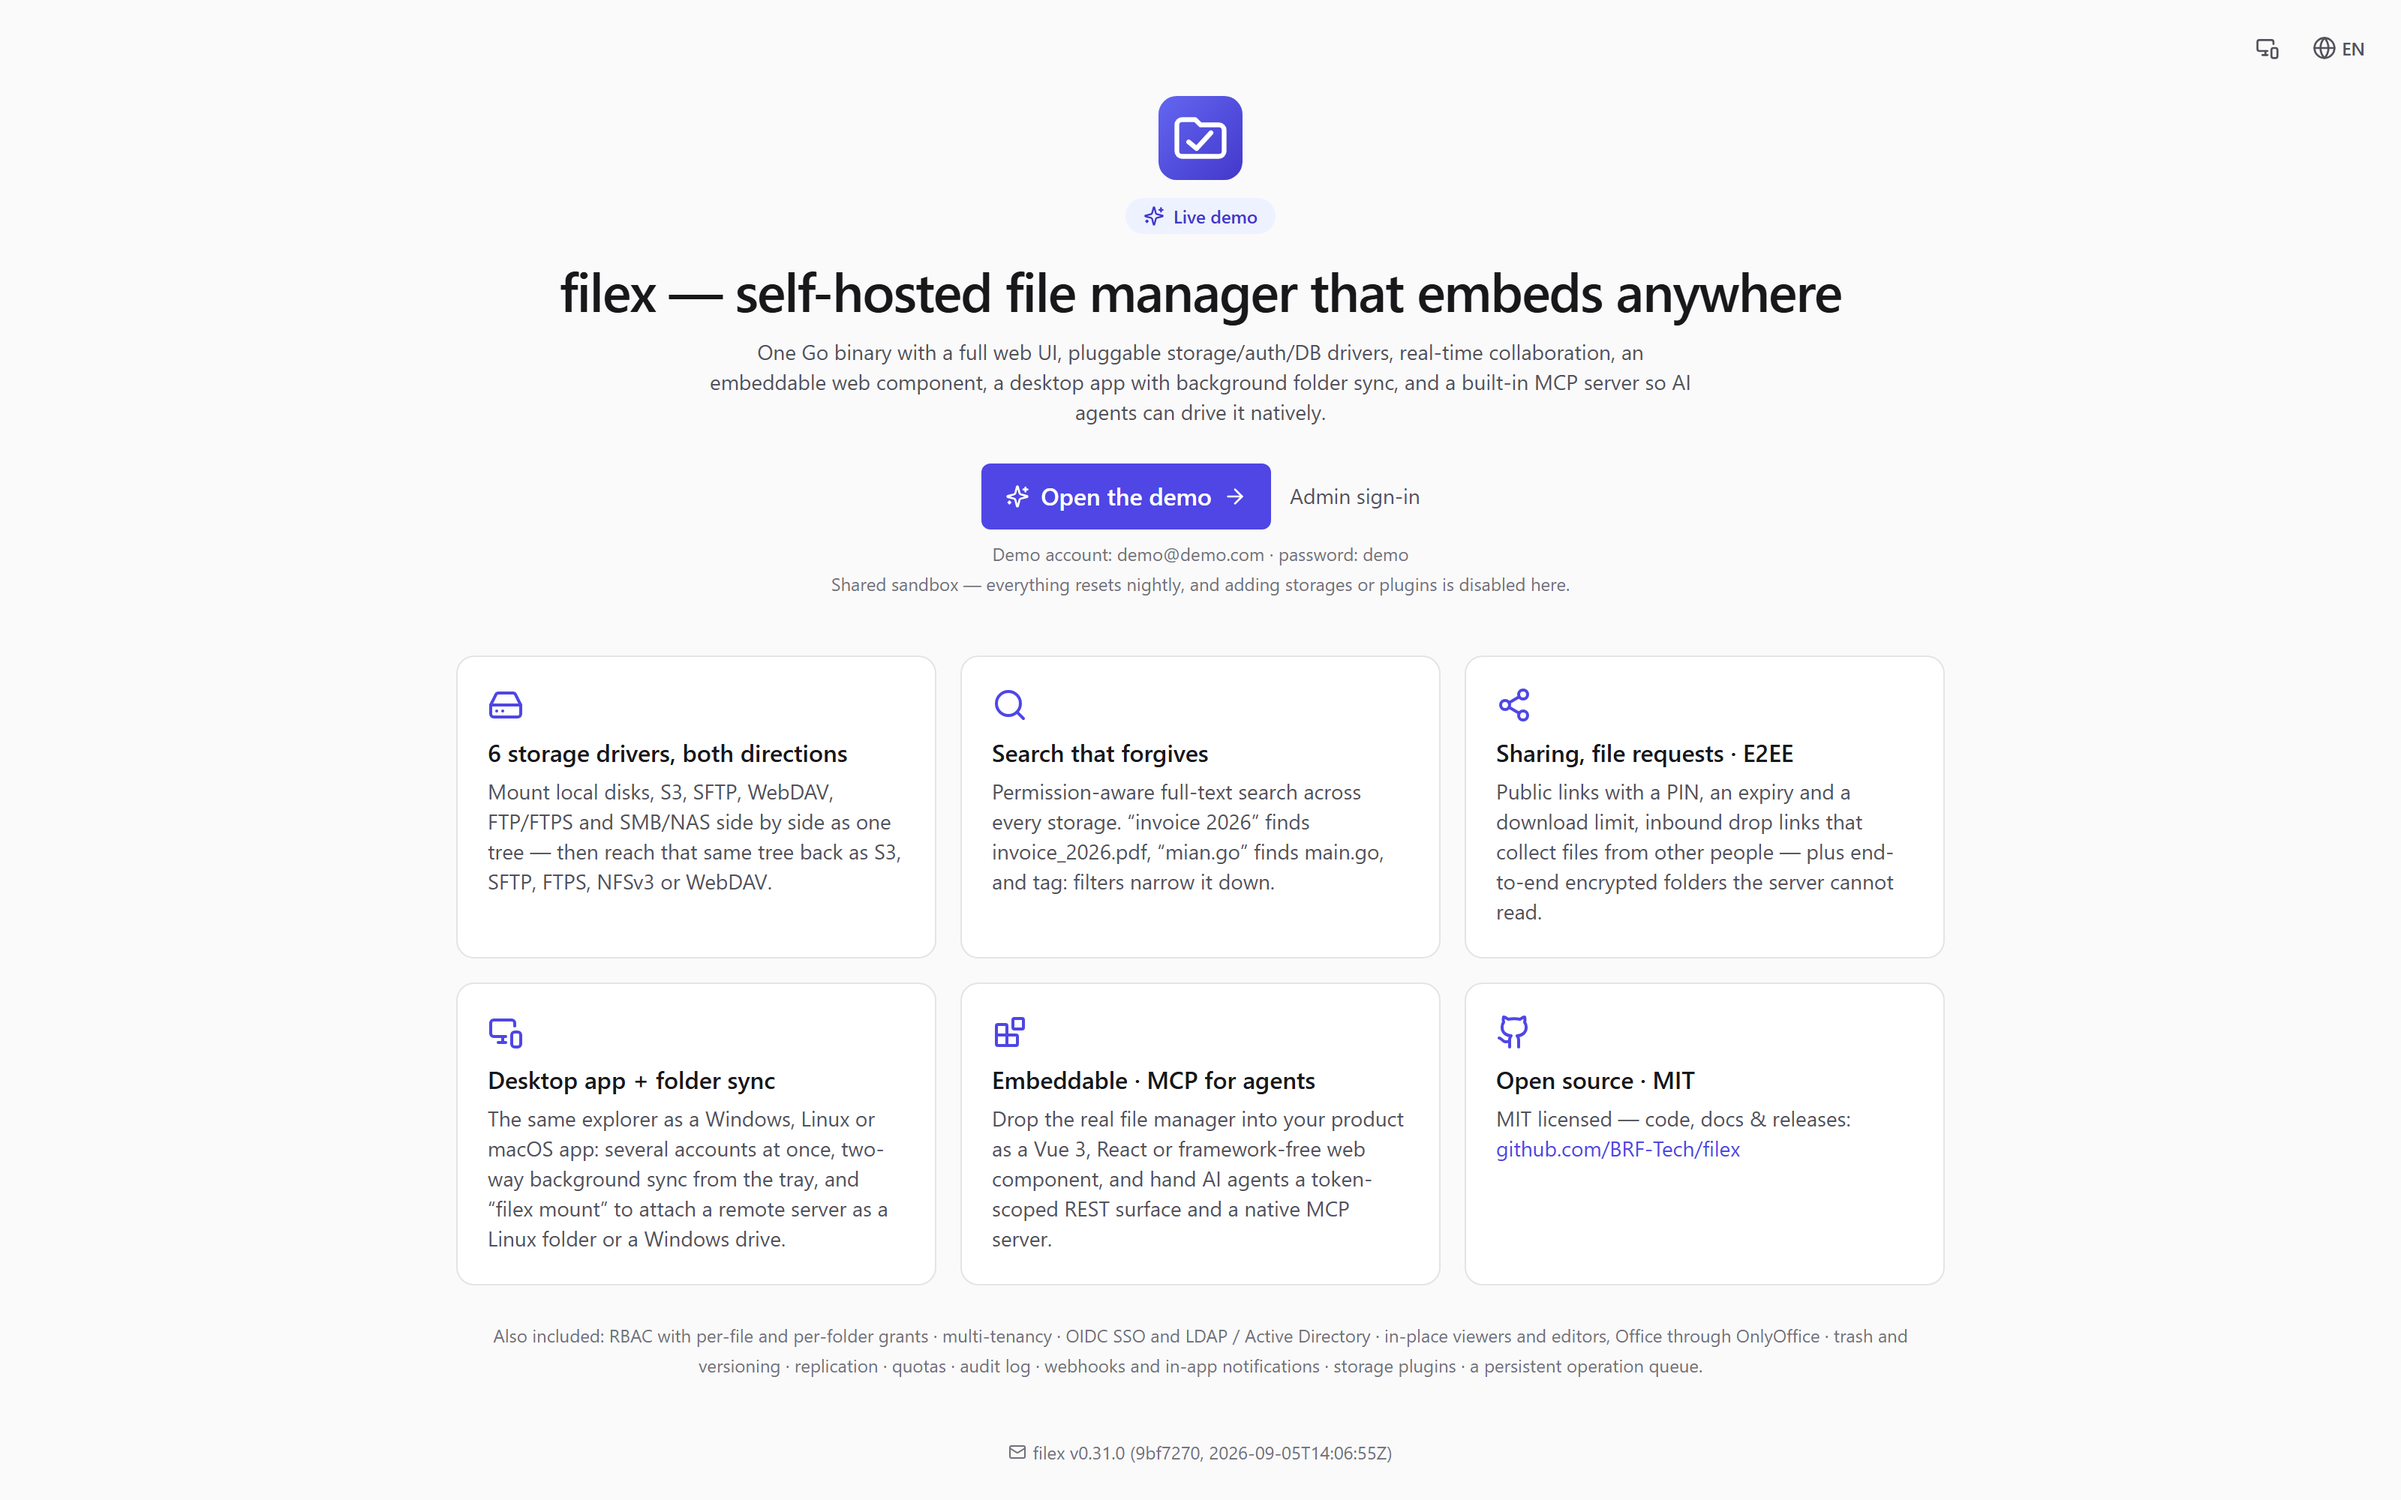
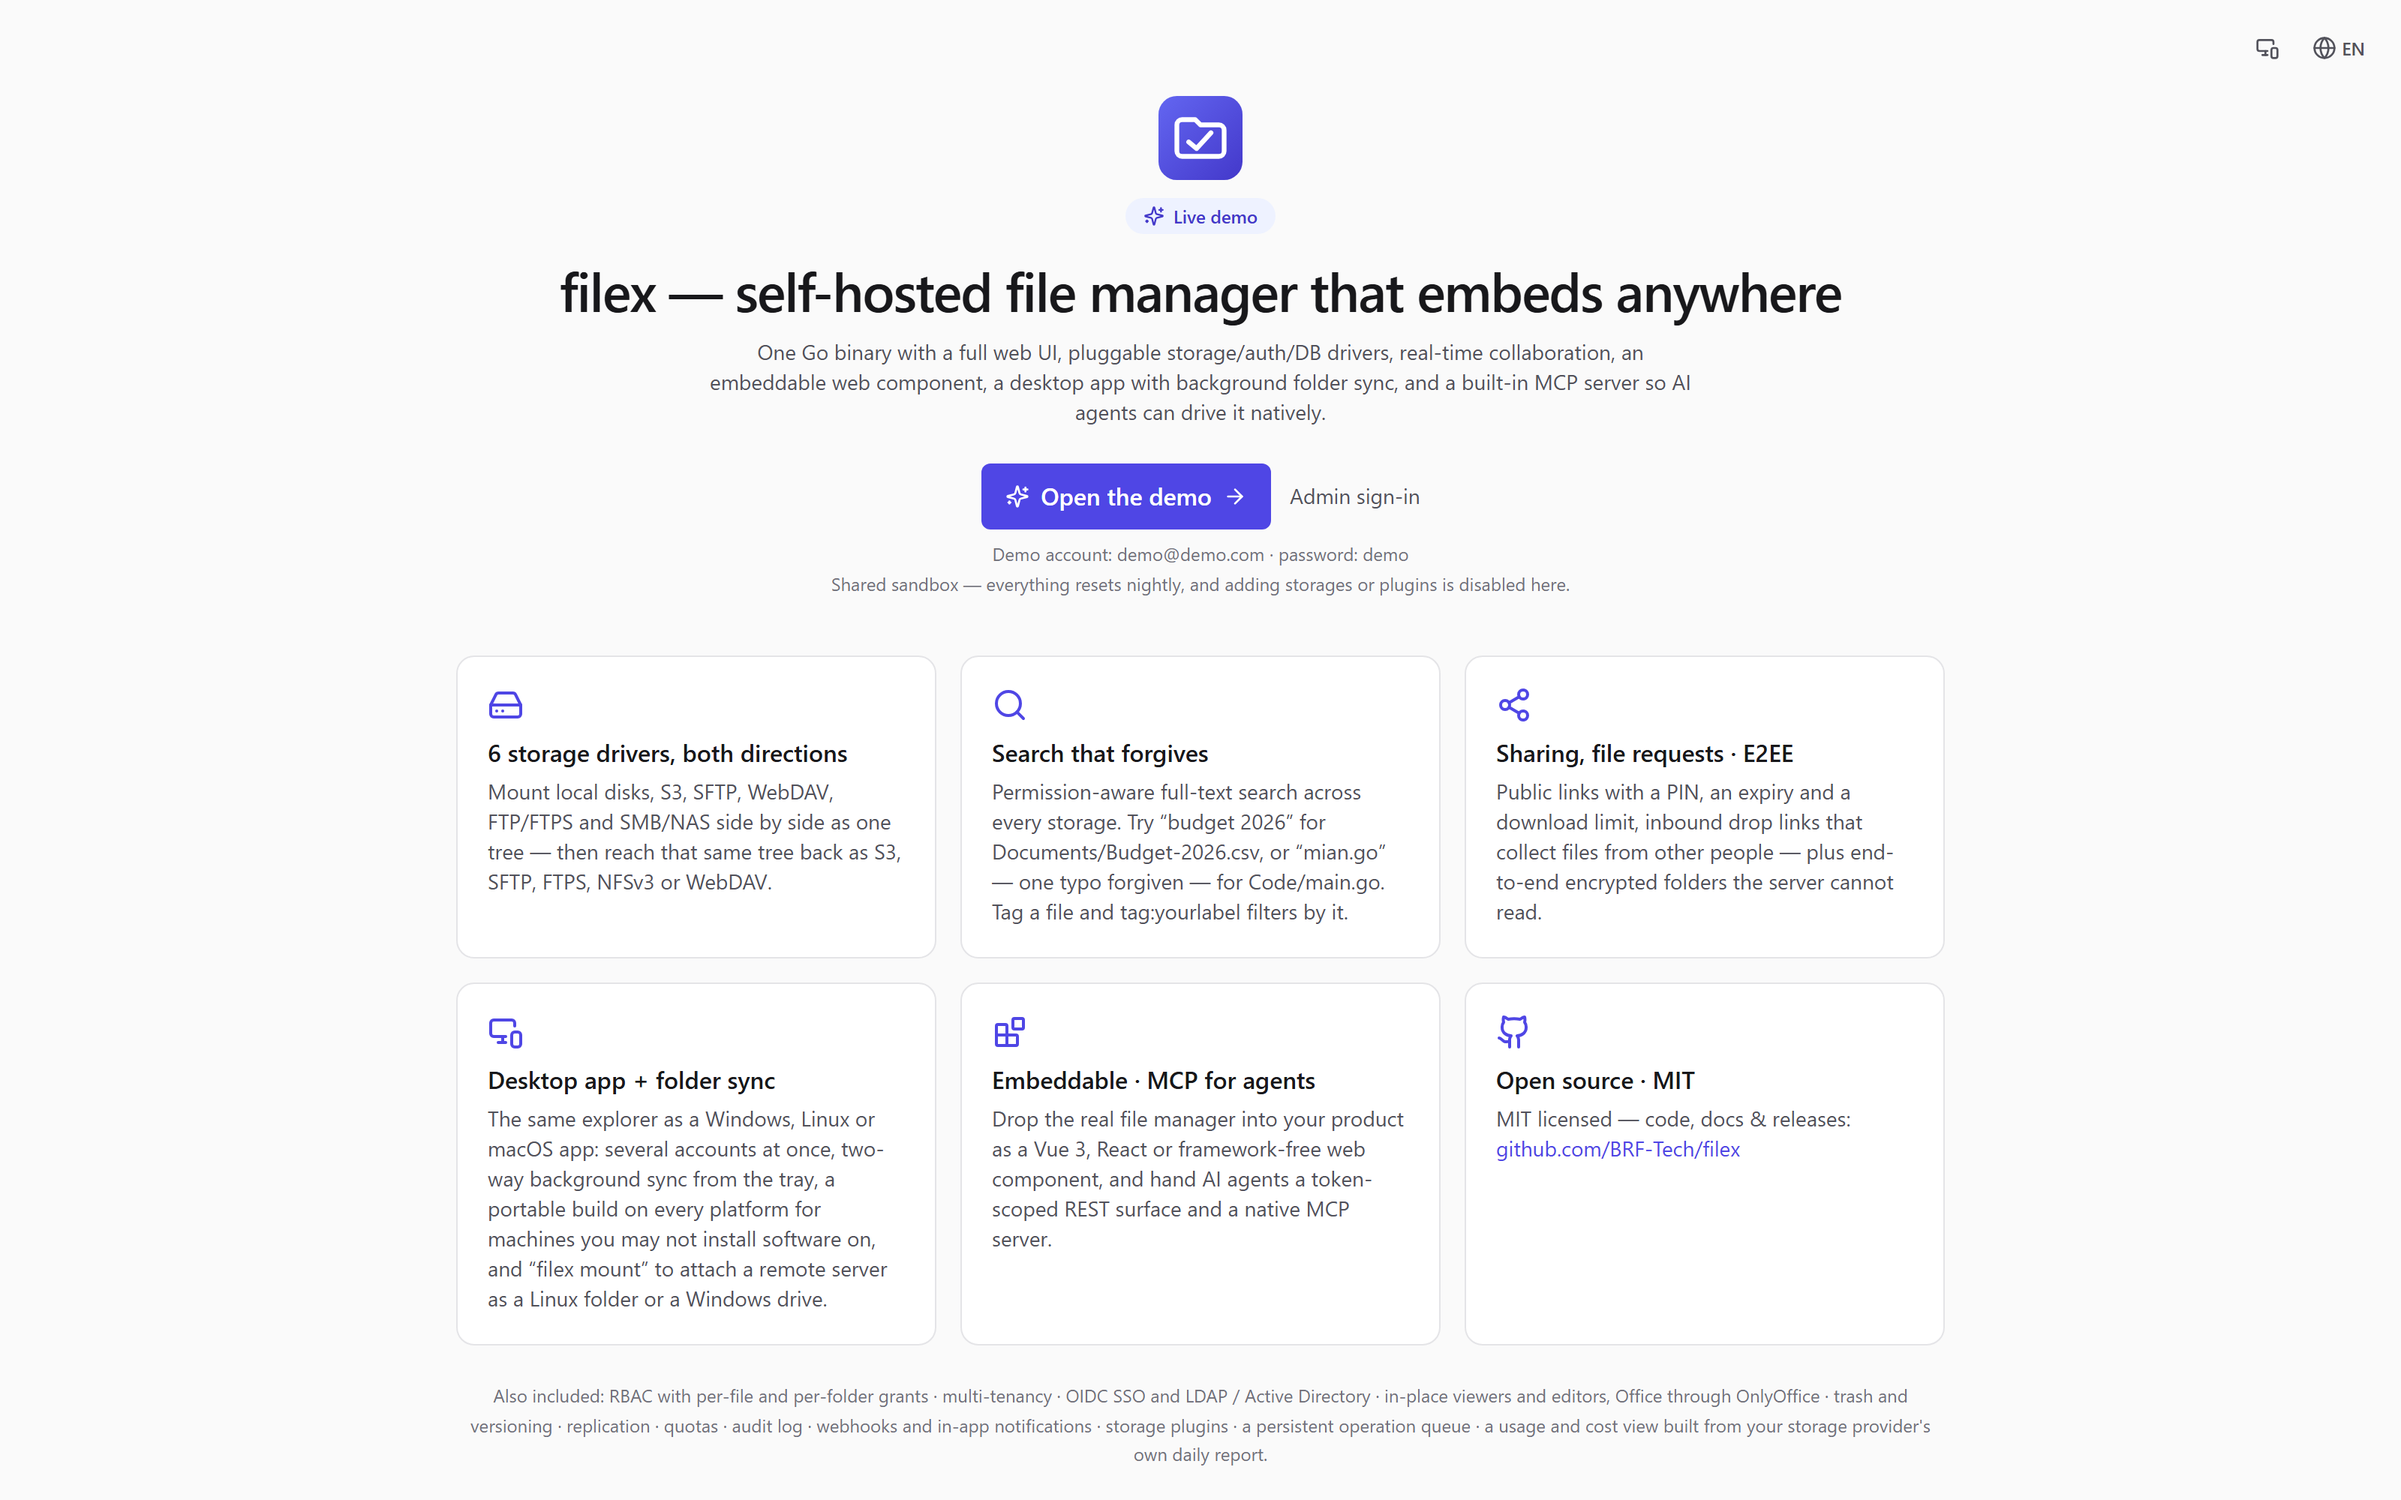
docs(releases) + e2e: v0.39.0 release index, the corrected demo landing shot, and the kept server log
Claude-Session: https://claude.ai/code/session_01RMK4ZYpTEKAa6ttZWTXPfp

Changed region(s): [[0.1875, 0.806, 0.8125, 0.992], [0.4062, 0.527, 0.5625, 0.62]]

diff --git a/docs/RELEASES.md b/docs/RELEASES.md
@@ -19,14 +19,69 @@ file on every contributor who ran it.
 Whether filex installs a release by itself depends on which part of the version moved —
 see [Updates](./UPDATES.md).
 
-::: tip Latest — v0.38.2, 12 September 2026
-Editing a storage now takes effect on the running process. Creating one started its syncer and deleting one stopped it, but editing one did neither: the row was written and the save reported as successful while the syncer and every download kept using the configuration loaded at boot. A corrected bucket went on failing, a disabled storage went on being scanned, and a renamed one went on logging its old name. Downloads also stopped declaring a length taken from the catalogue rather than from the storage, which is what made OnlyOffice report "Download failed" on an install whose catalogue was behind, and the fetch endpoint now says in the log which of five things went wrong.
+::: tip Latest — v0.39.0, 12 September 2026
+Two things a storage was missing. First, an address that does not move: a storage's name is the first path segment on WebDAV, SFTP, NFS and the S3-compatible API, so renaming one silently re-addressed it and every mount written against the old name answered 404. Every storage now also carries a uid, assigned once and never changed, and all five protocols accept it in place of the name — the name stays the label people type, the uid is what you give a machine. Second, a usage and cost view: filex does not meter your provider's bill, it reads the daily report the provider already writes and prices it with a table you can edit, with the free allowances shown beside the billable lines. Backblaze B2 first, over the same S3 API filex already speaks.
 :::
 
 ```bash
-docker pull ghcr.io/brf-tech/filex:slim-v0.38.2
-docker pull ghcr.io/brf-tech/filex:full-v0.38.2
+docker pull ghcr.io/brf-tech/filex:slim-v0.39.0
+docker pull ghcr.io/brf-tech/filex:full-v0.39.0
 ```
+
+## v0.39.0
+
+<span class="filex-release-date">12 September 2026</span>
+
+Two things a storage was missing. First, an address that does not move: a storage's name is the first path segment on WebDAV, SFTP, NFS and the S3-compatible API, so renaming one silently re-addressed it and every mount written against the old name answered 404. Every storage now also carries a uid, assigned once and never changed, and all five protocols accept it in place of the name — the name stays the label people type, the uid is what you give a machine. Second, a usage and cost view: filex does not meter your provider's bill, it reads the daily report the provider already writes and prices it with a table you can edit, with the free allowances shown beside the billable lines. Backblaze B2 first, over the same S3 API filex already speaks.
+
+## What changed
+
+### Added
+
+- **Usage & cost** (#20). filex does not meter your provider's bill; it reads
+  the report the provider already writes, normalises it and prices it with a
+  table you can edit. Backblaze B2 first: its daily CSVs land in a bucket of
+  its own, which you attach as a read-only storage, and filex reads them over
+  the same S3 API it already speaks — no new dependency and no new credential
+  type. Prices and free allowances are settings rather than constants in a
+  formula, so a price change is an edit.
+
+  Three things the page refuses to do, each because it is how a cost view
+  misleads: it never draws an empty chart for an unconfigured instance ("you
+  spent nothing" and "nothing is set up" are the same zero), it never adds the
+  provider's account-level row to its per-bucket rows (the same transactions
+  are in both, and the sum is wrong by exactly the amount nobody notices), and
+  it never presents the estimate as a bill. `GET /api/admin/usage`,
+  supertenant-only, and [docs/USAGE.md](./USAGE.md).
+
+- **Every storage now has an address that does not move.** A storage's name is
+  the first path segment on every file protocol — `/dav/<name>/`, `/<name>/`
+  over SFTP and NFS, the bucket over the S3-compatible API — so renaming one
+  silently re-addresses it and every mount, bookmark and script written against
+  the old name answers 404. The name has to stay editable, because it is the
+  label people read, so the fix is a second address rather than a frozen first
+  one: every storage carries a `uid`, assigned once when it is created, and all
+  five protocols accept it in place of the name. A mount written against it
+  survives every rename.
+
+  Existing storages are given one by the migration, on all three engines. The
+  admin page shows it under **Stable address**, and `GET /api/admin/storages`
+  returns it as `uid`. A storage whose name happens to be uuid-shaped still
+  resolves by name, so nothing that worked before this stops working.
+
+  The rule lives in one place (`internal/storageref`) rather than in each
+  server, and a test fails if any protocol goes back to resolving names on its
+  own — five copies of "which identifier is this" is how a product ends up
+  behaving differently depending on how you reach it.
+
+[Full changelog entry](https://github.com/BRF-Tech/filex/blob/main/CHANGELOG.md#0390---2026-09-12)
+
+- **Documentation** — &lt;https://docs.filex.sh>
+- **Report a bug** — &lt;https://github.com/BRF-Tech/filex/issues>
+- **Full changelog** — &lt;https://github.com/BRF-Tech/filex/blob/main/CHANGELOG.md>
+- **Every release** — &lt;https://github.com/BRF-Tech/filex/releases>
+
+[Downloads and checksums](https://github.com/BRF-Tech/filex/releases/tag/v0.39.0) · desktop packages included · `ghcr.io/brf-tech/filex:slim-v0.39.0`
 
 ## v0.38.2
 
@@ -2687,49 +2742,13 @@ If you run filex against LDAP or Active Directory, this is the release where tha
 
 [Downloads and checksums](https://github.com/BRF-Tech/filex/releases/tag/v0.27.4) · desktop packages included · `ghcr.io/brf-tech/filex:slim-v0.27.4`
 
-## v0.27.3
-
-<span class="filex-release-date">29 August 2026</span>
-
-## What changed
-
-### Fixed
-
-- **A folder dragged out of the desktop app arrived empty.** The watcher that
-  finds where a stand-in landed was started *after* `webContents.startDrag()` —
-  and on Windows that call hands control to the operating system's own drag
-  loop, which does not return until the user lets go. The watcher therefore
-  went up after the drop had already happened. Worse, a recursive `fs.watch`
-  whose event loop is blocked does not deliver the change late; it misses it
-  outright (measured: a file created during a 4-second block was never
-  reported, before or after). Two changes: the watcher is armed **before** the
-  drag, and it runs in a **worker thread**, whose loop keeps running while the
-  main thread is inside the drag loop. Single files were never affected,
-  because a small selection is prepared in the background and handed to the OS
-  as a real file — which is why this only ever showed up on folders.
-- **The suite could not have caught it.** Its simulated drop happened after the
-  drag call returned, and its test hook skipped `startDrag` entirely rather than
-  blocking like the real one. Both are fixed: the drop is now performed *while*
-  the drag is in flight, and the hook blocks for the same reason the OS does.
-
-### Added
-
-- **The desktop app keeps a log** at `<userData>/logs/filex-desktop.log`
-  (rotated at 2 MB, one previous file kept). A packaged app has no console, so
-  `console.log` went nowhere: when a drag-out failed, the only evidence was an
-  empty folder. Every step of a drag and of a transfer is one line, and an
-  uncaught exception in the main process lands there too.
-
-[Full changelog entry](https://github.com/BRF-Tech/filex/blob/main/CHANGELOG.md#0273---2026-08-29)
-
-[Downloads and checksums](https://github.com/BRF-Tech/filex/releases/tag/v0.27.3) · desktop packages included · `ghcr.io/brf-tech/filex:slim-v0.27.3`
-
 ## Earlier releases
 
-The 90 releases before v0.27.3, in brief. Full notes are on GitHub.
+The 91 releases before v0.27.4, in brief. Full notes are on GitHub.
 
 | Version | Date | What changed |
 |---|---|---|
+| [v0.27.3](https://github.com/BRF-Tech/filex/releases/tag/v0.27.3) | 29 August 2026 | finds where a stand-in landed was started *after* `webContents.startDrag()` — |
 | [v0.27.2](https://github.com/BRF-Tech/filex/releases/tag/v0.27.2) | 29 August 2026 | reading it.** `Content-Disposition` carried the filename raw, so a name like |
 | [v0.27.1](https://github.com/BRF-Tech/filex/releases/tag/v0.27.1) | 29 August 2026 | stand-in by NAME across the local drives, so any file that happened to appear |
 | [v0.27.0](https://github.com/BRF-Tech/filex/releases/tag/v0.27.0) | 28 August 2026 | the next now does what it says: the queue carries a destination storage of its |
@@ -2823,4 +2842,4 @@ The 90 releases before v0.27.3, in brief. Full notes are on GitHub.
 
 ---
 
-<small>Last refreshed 2026-09-12 from 110 published releases.</small>
+<small>Last refreshed 2026-09-12 from 111 published releases.</small>
